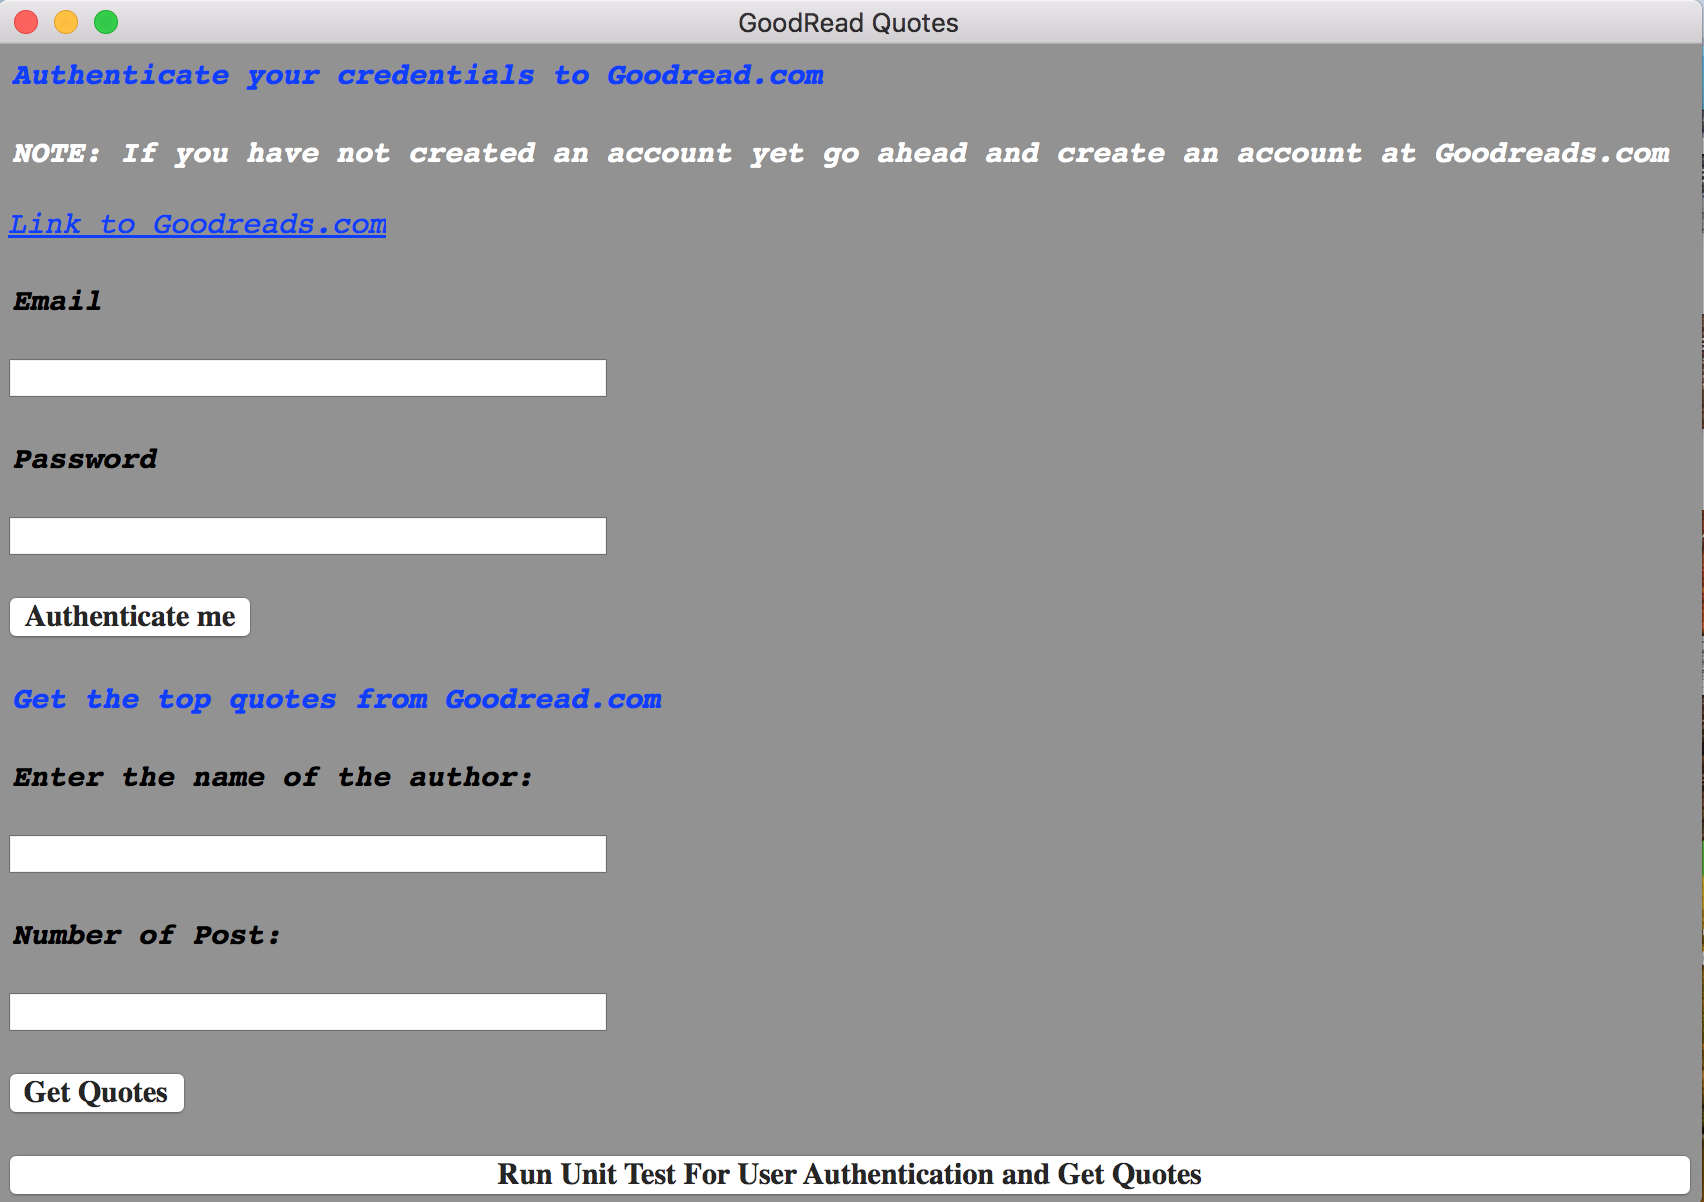
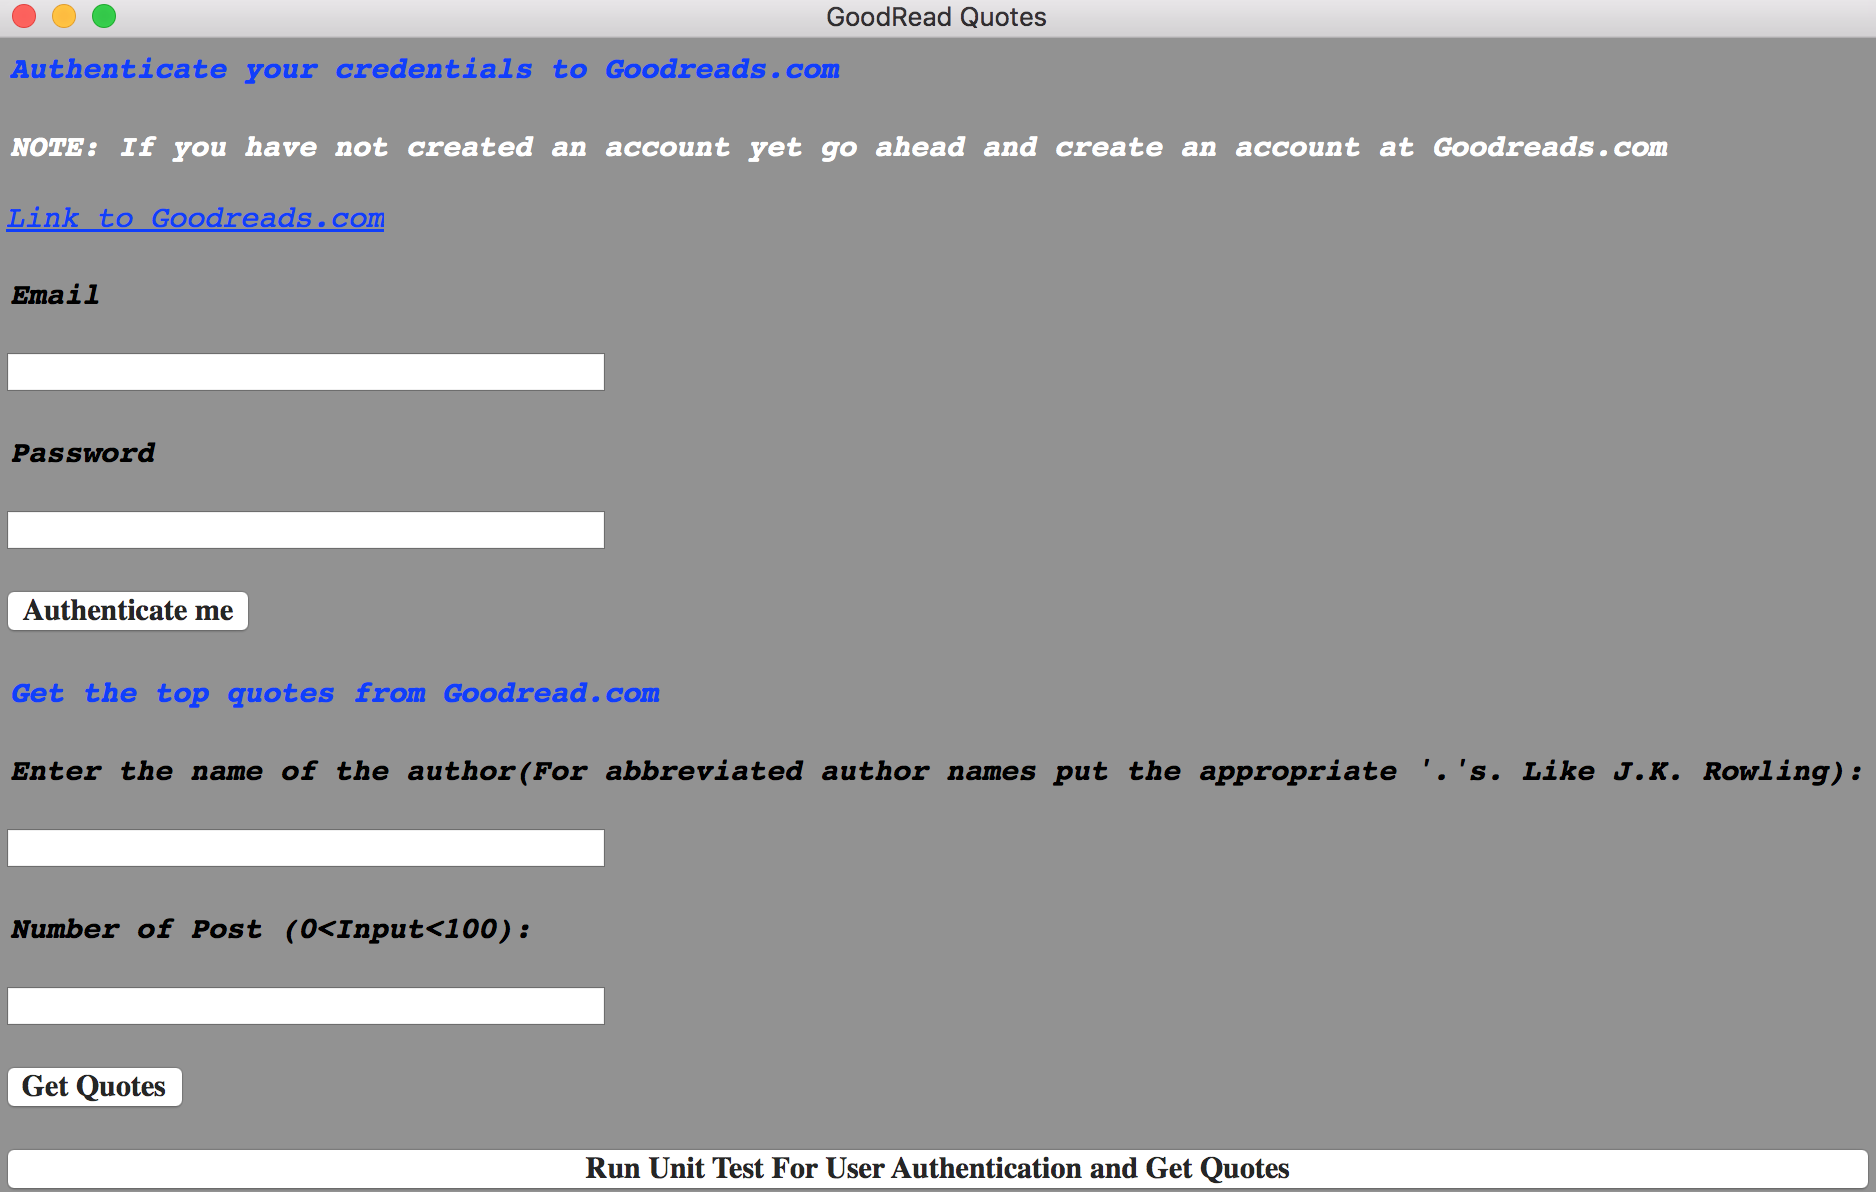
major changes

diff --git a/TopQuotesGUI/Quotes.py b/TopQuotesGUI/Quotes.py
@@ -34,7 +34,11 @@ class GoodRead():
                 raise ValueError('Name cannot contain Numbers! Enter proper author name !')
             temp = []
             for item in author.split(' '):
-                 temp.append(item.lower().capitalize())
+                if '.' in item:
+                    item = [x.capitalize() for x in item.split('.')]
+                    temp.append('.'.join(item))
+                else:
+                    temp.append(item.lower().capitalize())
             self.author_query = ' '.join(temp)
         except ValueError as e:
             self.exitcondition = True
@@ -82,7 +86,7 @@ class GoodRead():
         try:
             if not username:
                 raise ValueError('Empty email! please provide a proper email!')
-            self.email = str(username)
+            self.email = str(username).lstrip().rstrip()
             return self.email
         except ValueError as e:
             self.exitcondition = True
@@ -93,7 +97,7 @@ class GoodRead():
         try:
             if not password:
                 raise ValueError('Empty password! please provide a proper password!')
-            self.password = str(password)
+            self.password = str(password).lstrip().rstrip()
             return self.password
         except ValueError as e:
             self.exitcondition = True
@@ -152,7 +156,9 @@ class GoodRead():
     def clean_quotes(self,s):
         start = "\n      \xe2\x80\x9c"
         end = ".\xe2\x80\x9d\n    \xe2\x80\x95\n  \n    "+self.author_query
-        return s.split(start)[1].split(end)[0]
+        end1 = ".\xe2\x80\x9d\n    \xe2\x80\x95\n  \n    "+self.author_query.lower()
+        end2 = ".\xe2\x80\x9d\n    \xe2\x80\x95\n  \n    "+self.author_query.upper()
+        return s.split(start)[1].split(end)[0].split(end1)[0].split(end2)[0]
 
     def set_numQuotes(self,num):
         try:
@@ -168,48 +174,73 @@ class GoodRead():
             print(e)
             return e
 
+    def gen_url(self,author, page):
+
+        return self.base_url + "quotes/search?&commit=Search&page="+ str(page)+"&q=" + author
+
+
     def get_top_quotes(self,author, numQuotes,query_url,filename,isPrint = False):
         try:
+
             if not query_url:
                 raise ValueError('Please provide a Link properly')
-            try:
-                page = requests.get(query_url, timeout=6.0)
-            except  (ConnectTimeout, HTTPError, ReadTimeout, Timeout, ConnectionError) as e:
-                self.exitcondition = True
-                print(e)
-                return e
+
             if type(numQuotes) is not int:
                   raise ValueError('Num of Quotes should be an Integer Value')
             self.numQuotes = int(numQuotes)
             if not author:
                 raise ValueError('Please provide an author name properly.')
-            soup = BeautifulSoup(page.content, 'html.parser')
-            post = soup.find_all('div', {'class': 'quoteText'})
-            for script in soup.find_all('script'):
-                script.extract()
-            if len(post)==0:
-                raise ValueError('No quotes Found')
+
+            count = self.numQuotes
+            page_count = 1
+
             data = {}
             index = "Quotes By:" + author
             data[index] = []
-            self.numQuotes = min(self.numQuotes, len(post))
-            i = 0
-            count = self.numQuotes
-            while count > 0 and i < len(post):
-                if (author == str(post[i].find("span", class_="authorOrTitle").text).rstrip().lstrip()):
-                    val =post[i].get_text()
-                    content = self.clean_quotes(val.encode("utf-8"))
-                    data[index].append({
-                        'Content': content,
-                        'Author': author
-                    }
-                    )
-                    count -= 1
-                i += 1
-            if len(data)==0:
-                raise ValueError('No quotes Found')
+
+            while True:
+                try:
+                    page = requests.get(query_url, timeout=6.0)
+                except  (ConnectTimeout, HTTPError, ReadTimeout, Timeout, ConnectionError) as e:
+                    self.exitcondition = True
+                    print(e)
+                    return e
+
+                soup = BeautifulSoup(page.content, 'html.parser')
+                post = soup.find_all('div', {'class': 'quoteText'})
+                for script in soup.find_all('script'):
+                    script.extract()
+
+                if len(post) == 0 and page_count==1:
+                    raise ValueError('No quotes Found')
+                elif len(post) == 0 and page_count>1:
+                    break
+
+                i = 0
+                while i < len(post):
+                    authorOrTitle = str(post[i].find("span", class_="authorOrTitle").text).rstrip().lstrip()
+                    if (author in authorOrTitle or author.lower() in authorOrTitle or author.upper() in authorOrTitle):
+                        val = post[i].get_text()
+                        content = val.encode("utf-8").replace('\n', '')  # self.clean_quotes(val.encode("utf-8"))
+                        data[index].append({
+                            'Content': content,
+                            'Author': author
+                        }
+                        )
+                        count -= 1
+                        if count==0: break
+                    i += 1
+
+                if count==0:
+                    break
+
+                page_count = page_count + 1
+                query_url = self.gen_url(author, page_count)
+
+
             self.jsondata = data
-            self.dumpjson(self.jsondata,filename)
+            self.dumpjson(self.jsondata, filename)
+
             if isPrint:
                 self.outputjson(author,self.numQuotes)
             return data
@@ -223,7 +254,7 @@ class GoodRead():
         with open(path+filename, 'w') as outfile:
             json.dump(data, outfile)
         print("-------------------------------------------------------")
-        print("Check " + self.filename + " in ./TopQuotes/Data/ ")
+        print("Check " + self.filename + " in ./TopQuotesGUI/Data/ ")
         print("-------------------------------------------------------")
 
     def outputjson(self,author,x):
@@ -270,7 +301,7 @@ if __name__ == "__main__":
         obj.set_credential()
     '''Get Quotes'''
     if(obj.auth_flag):
-        obj.set_author_query("Mark Twain")
+        obj.set_author_query("Mark Twain")#Douglas Adams
         if not obj.exitcondition:
             obj.set_numQuotes(10)
         if not obj.exitcondition:

diff --git a/TopQuotesGUI/GUI.py b/TopQuotesGUI/GUI.py
@@ -26,44 +26,55 @@ class GoodReadGUI(wx.Frame):
         self.panel.Fit()
         self.panel.SetBackgroundColour("gray")
         # Authenticate Me
-        self.header1 = wx.StaticText(self.panel, label="Authenticate your credentials to Goodread.com")
+        self.header1 = wx.StaticText(self.panel, label="Authenticate your credentials to Goodreads.com")
         self.header1.SetFont(wx.Font(15, wx.SWISS, wx.ITALIC, wx.BOLD, False, 'Courier'))
         self.header1.SetForegroundColour("blue")
+
         self.warning = wx.StaticText(self.panel,
                                      label="NOTE: If you have not created an account yet go ahead and create an account at Goodreads.com ")
         self.warning.SetFont(wx.Font(15, wx.SWISS, wx.ITALIC, wx.BOLD, False, 'Courier'))
         self.warning.SetForegroundColour("white")
+
         self.email = wx.StaticText(self.panel,label="Email")
         self.email.SetFont(wx.Font(15, wx.SWISS, wx.ITALIC, wx.BOLD, False, 'Courier'))
         self.email_field = wx.TextCtrl(self, value="", size=(300, 20))
+
         self.password = wx.StaticText(self.panel,label="Password")
         self.password.SetFont(wx.Font(15, wx.SWISS, wx.ITALIC, wx.BOLD, False, 'Courier'))
-        self.password_field = wx.TextCtrl(self, value="", size=(300, 20))
+        self.password_field = wx.TextCtrl(self, value="", size=(300, 20), style=wx.TE_PASSWORD)
+
         self.link = hl.HyperLinkCtrl(self.panel, -1, "Link to Goodreads.com", pos=(100, 100),URL="https://www.goodreads.com/user/sign_in")
         self.link.SetFont(wx.Font(15, wx.SWISS, wx.ITALIC, wx.NORMAL, False, 'Courier'))
+
         self.authenticate_me = wx.Button(self.panel, label="Authenticate me", )
         self.authenticate_me.SetFont(wx.Font(15, wx.SWISS, wx.NORMAL, wx.FONTWEIGHT_BOLD, False, 'Times'))
         self.authenticate_me.SetBackgroundColour("Gray")
+
         #Get Quotes
         self.header2 = wx.StaticText(self.panel,
                                      label="Get the top quotes from Goodread.com")
         self.header2.SetFont(wx.Font(15, wx.SWISS, wx.ITALIC, wx.BOLD, False, 'Courier'))
         self.header2.SetForegroundColour("blue")
+
         self.author = wx.StaticText(self.panel,
-                                     label="Enter the name of the author:")
+                                     label="Enter the name of the author(For abbreviated author names put the appropriate '.'s. Like J.K. Rowling):")
         self.author.SetFont(wx.Font(15, wx.SWISS, wx.ITALIC, wx.BOLD, False, 'Courier'))
         self.author_field = wx.TextCtrl(self, value="", size=(300, 20))
+
         self.numpost = wx.StaticText(self.panel,
-                                     label="Number of Post:")
+                                     label="Number of Post (0<Input<100):")
         self.numpost.SetFont(wx.Font(15, wx.SWISS, wx.ITALIC, wx.BOLD, False, 'Courier'))
         self.numpost_field = wx.TextCtrl(self, value="", size=(300, 20))
+
         self.get_quotes = wx.Button(self.panel, label="Get Quotes", )
         self.get_quotes.SetFont(wx.Font(15, wx.SWISS, wx.NORMAL, wx.FONTWEIGHT_BOLD, False, 'Times'))
         self.get_quotes.SetBackgroundColour("Gray")
+
         # Run Unit Test
         self.run_unit_test = wx.Button(self.panel, label="Run Unit Test For User Authentication and Get Quotes" )
         self.run_unit_test.SetFont(wx.Font(15, wx.SWISS, wx.NORMAL, wx.FONTWEIGHT_BOLD, False, 'Times'))
         self.run_unit_test.SetBackgroundColour("Gray")
+
         #Consolidate
         self.windowSizer = wx.BoxSizer()
         self.windowSizer.Add(self.panel, 1, wx.ALL | wx.EXPAND)
@@ -97,7 +108,7 @@ class GoodReadGUI(wx.Frame):
         button = event.GetEventObject()
         if(button.GetLabel()=="Run Unit Test For User Authentication and Get Quotes"):
             print('Check Terminal for output')
-            os.system('python test_quotes.py')
+            os.system('python TopQuotesGUI/Test_quotes.py')
 
 
         if(button.GetLabel()=="Authenticate me"):
@@ -126,7 +137,11 @@ class GoodReadGUI(wx.Frame):
                 path = "./TopQuotesGUI/Data/"
                 temp = []
                 for item in str(self.author_field.GetValue()).split(' '):
-                    temp.append(item.lower().capitalize())
+                    if '.' in item:
+                        item = [x.capitalize() for x in item.split('.')]
+                        temp.append('.'.join(item))
+                    else:
+                        temp.append(item.lower().capitalize())
                 author = ' '.join(temp)
                 if(os.path.isfile(path+name+ '_top_quotes.json')):
 
@@ -135,16 +150,17 @@ class GoodReadGUI(wx.Frame):
                     with open(path+name+ '_top_quotes.json') as json_file:
                         data = json.load(json_file)
                         try:
-                            if not data[index]:
+                            if not data or not data[index]:
                                 raise  ValueError('No data to print')
                             for i,p in enumerate(data[index]):
+                                print('Quotes ' + str(i))
                                 print(p['Content'])
                                 print('')
                                 print('********************************************************')
                         except ValueError as e:
                             print(e)
 
-                    os.remove(path+name+ '_top_quotes.json')
+                #os.remove(path+name+ '_top_quotes.json')
             except ValueError as e:
                 print(e)
 

diff --git a/GetFbPostGUI/GUI.py b/GetFbPostGUI/GUI.py
@@ -2,6 +2,7 @@
 '''
 Expedia Coding Challenge
 Author: Rupam Kundu, The Ohio State University
+GUI for Scrape Fb Page Posts
 '''
 import os
 import wx
@@ -21,30 +22,36 @@ class ScrapeFbdataGUI(wx.Frame):
     def InitUI(self):
         self.panel = wx.Panel(self)
         self.panel.Fit()
-        self.panel.SetBackgroundColour("gray")
+        self.panel.SetBackgroundColour("Gray")
 
         # Get Fb page
         self.header1 = wx.StaticText(self.panel,
                                      label="Get the top posts of a Facebook Page")
         self.header1.SetFont(wx.Font(15, wx.SWISS, wx.ITALIC, wx.BOLD, False, 'Courier'))
         self.header1.SetForegroundColour("blue")
+
         self.link = hl.HyperLinkCtrl(self.panel, -1, "Link to Facebook.com", pos=(100, 100),
                                      URL="https://www.facebook.com/")
+
         self.header2 = wx.StaticText(self.panel,
                                      label="Note: Make sure to input the proper Facebook Page Name as appears as * in https://www.facebook.com/*")
         self.header2.SetFont(wx.Font(15, wx.SWISS, wx.ITALIC, wx.BOLD, False, 'Courier'))
         self.header2.SetForegroundColour("white")
+
         self.page = wx.StaticText(self.panel,
                                     label="Enter the name of the page:")
         self.page.SetFont(wx.Font(15, wx.SWISS, wx.ITALIC, wx.BOLD, False, 'Courier'))
         self.page_field = wx.TextCtrl(self, value="", size=(300, 20))
+
         self.numpost = wx.StaticText(self.panel,
-                                     label="Number of Post:")
+                                     label="Number of Post(0<Input<20):")
         self.numpost.SetFont(wx.Font(15, wx.SWISS, wx.ITALIC, wx.BOLD, False, 'Courier'))
         self.numpost_field = wx.TextCtrl(self, value="", size=(300, 20))
+
         self.get_post = wx.Button(self.panel, label="Get Posts")
         self.get_post.SetFont(wx.Font(15, wx.SWISS, wx.NORMAL, wx.FONTWEIGHT_BOLD, False, 'Times'))
         self.get_post.SetBackgroundColour("Gray")
+
         # Consolidate
         self.windowSizer = wx.BoxSizer()
         self.windowSizer.Add(self.panel, 1, wx.ALL | wx.EXPAND)
@@ -89,13 +96,12 @@ class ScrapeFbdataGUI(wx.Frame):
                                 print('****************************************')
                         except ValueError as e:
                             print(e)
-                    os.remove(path + 'Top_' + name + '_Facebook_Post.json')
+                    #os.remove(path + 'Top_' + name + '_Facebook_Post.json')
             except ValueError as e:
                 print(e)
 
 def main():
     app = wx.App(redirect=True)
-
     ex = ScrapeFbdataGUI(None, title='Scrape Fb Page Posts')
     ex.Show()
     app.MainLoop()

diff --git a/TopQuotesGUI/Test_quotes.py b/TopQuotesGUI/Test_quotes.py
@@ -99,16 +99,6 @@ class TestMethods(unittest.TestCase):
             obj.get_top_quotes("Mark XYZ", 0, "",
                                "abc.json"))
 
-    #@unittest.skip('')
-    def test_mark_twain_author_get_quotes(self):
-        obj = GoodRead()
-        observed_dat1 = obj.get_top_quotes("Mark Twain", 2, "https://www.goodreads.com/quotes/search?&q=mark+twain&commit=Search", "abc.json")
-
-        actual_data = {"Quotes By:Mark Twain": [
-            {"Content": "If you tell the truth, you don't have to remember anything", "Author": "Mark Twain"},
-            {"Content": "Good friends, good books, and a sleepy conscience: this is the ideal life",
-             "Author": "Mark Twain"}]}
-        self.assertEqual(actual_data, observed_dat1)
     ''''''
 
 if __name__ == '__main__':
